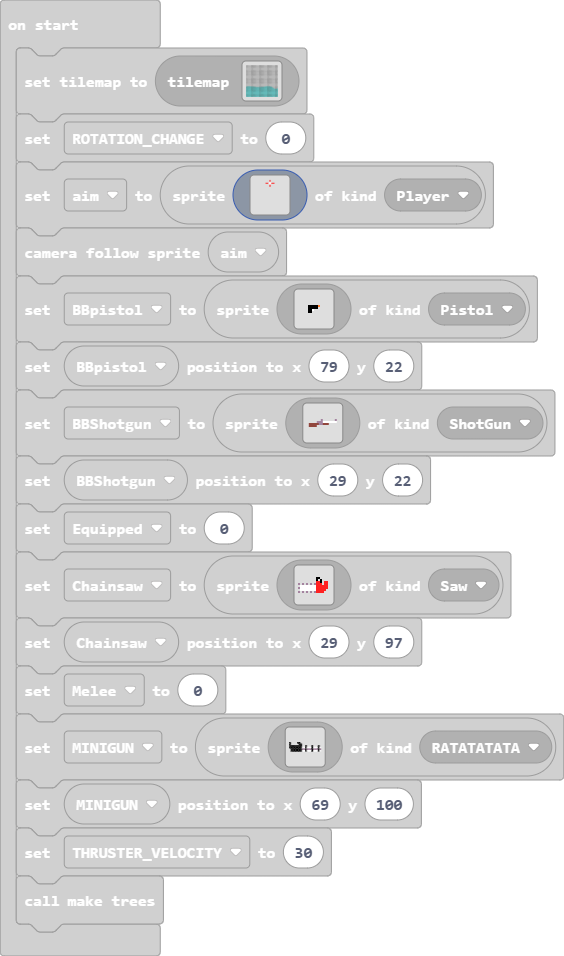
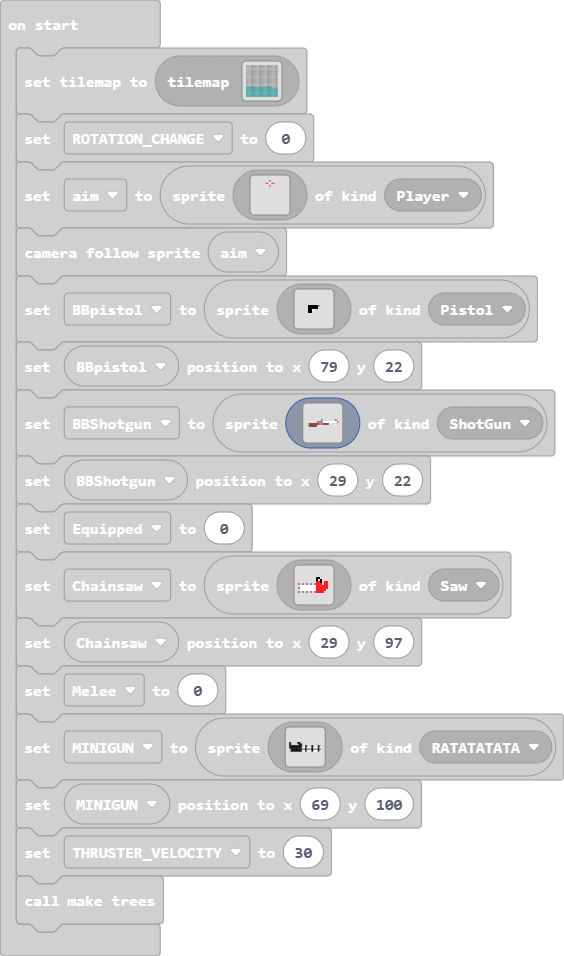
Update pxt.json, main.blocks, main.ts

Changed region(s): [[0.4823, 0.3944, 0.6631, 0.4854], [0.3918, 0.182, 0.5426, 0.2427], [0.4521, 0.1517, 0.5124, 0.182]]

diff --git a/main.ts b/main.ts
@@ -339,7 +339,7 @@ let BBShotgun = sprites.create(img`
     . . . . . . . . . . . . . . . . 
     . . . . . . . . . . . . . . . . 
     . . . . . . . b . . . . . . b . 
-    . . . . . b b b 1 1 1 1 1 1 1 . 
+    . . . . . b b b 1 1 1 1 1 1 1 4 
     . e e e e e b b e e e . . . . . 
     . e e e e . . . . . . . . . . . 
     . . . . . . . . . . . . . . . . 
